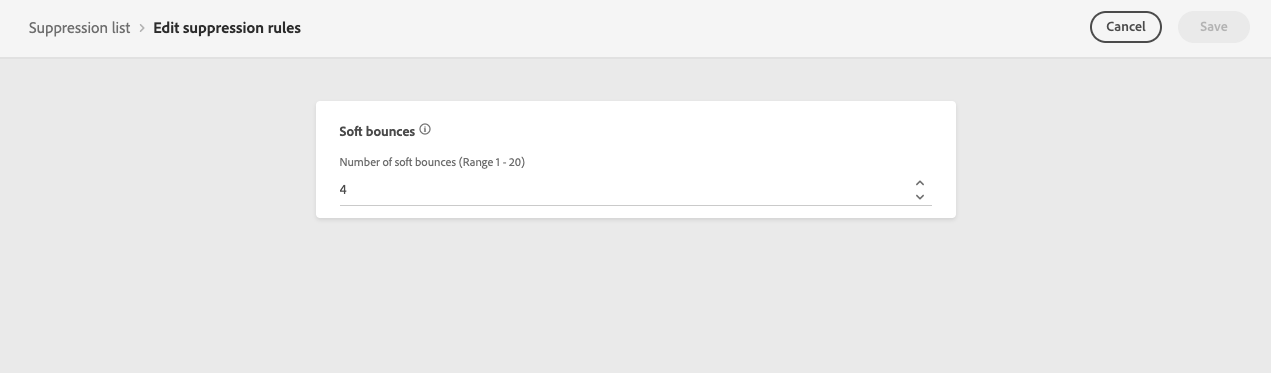
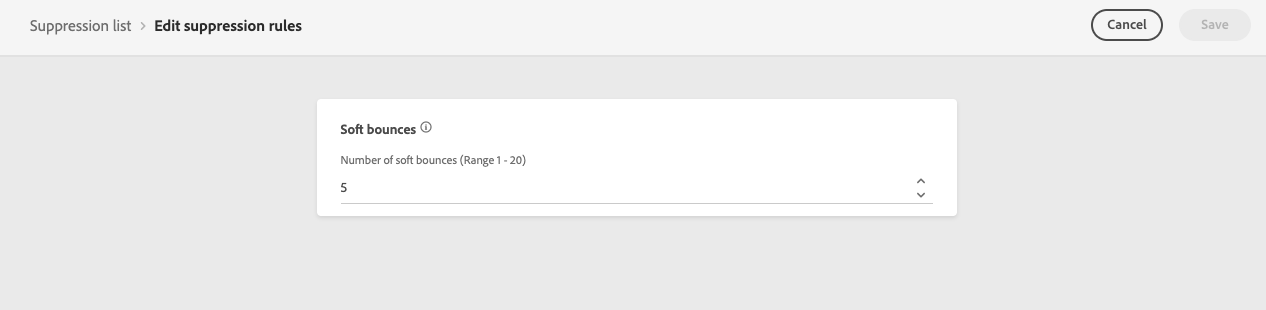
Retries updates

diff --git a/help/using/configuration/retries.md b/help/using/configuration/retries.md
@@ -25,25 +25,31 @@ When an email message fails due to a temporary **Soft bounce** error, several re
 >
 >Learn more on the types of errors in the [Delivery failure types](../suppression-list.md#delivery-failures) section.
 
-In the default configuration, the threshold is set at five errors:
+In the default configuration, the threshold is set to 5 errors.
 
 * For the same delivery, at the fifth encountered error within the [retry time period](#retry-duration), the address is suppressed.
 
-* If there are different deliveries and two errors occur at least 24 hours apart, the error counter is incremented upon each error and the address is also suppressed at the third attempt.
+* If there are different deliveries and two errors occur at least 24 hours apart, the error counter is incremented upon each error and the address is also suppressed at the fifth attempt.
 
 If a delivery is successful after a retry, the error counter of the address is reinitialized.
 
-You can modify the limit threshold using the **[!UICONTROL Edit suppression rules]** button from the **[!UICONTROL Channels]** > **[!UICONTROL Email configuration]** > **[!UICONTROL Suppression list]** menu.
+In case the default value of 5 does not suit your needs, you can modify the error threshold following the steps below.
 
-![](../assets/suppression-list-edit-retries.png)
+1. Go to **[!UICONTROL Channels]** > **[!UICONTROL Email configuration]** > **[!UICONTROL Suppression list]**.
 
-Edit the number of soft bounces according to your needs and with the limitations below:
+1. Select the **[!UICONTROL Edit suppression rules]** button.
 
-* The soft bounce value must be between 1 and 20, meaning that the minimum value for consecutive soft bounces is 1 and the maximum value is 20.
-* By default, the value is set to 5.
-* Any value higher than 10 may cause deliverability reputation issues, as well as IP throttling or blocklisting by ISPs.
+    ![](../assets/suppression-list-edit-retries.png)
 
-![](../assets/suppression-list-edit-soft-bounces.png)
+1. Edit the allowed number of consecutive soft bounces according to your needs.
+
+    ![](../assets/suppression-list-edit-soft-bounces.png)
+
+    You must enter a value between 1 and 20, meaning that the minimum number of retries is 1 and the maximum number is 20.
+
+    >[!CAUTION]
+    >
+    >Any value higher than 10 may cause deliverability reputation issues, as well as IP throttling or blocklisting by ISPs. Learn more on [deliverability](deliverability.md)
 
 <!--![](../assets/retries-edition.png)-->
 
